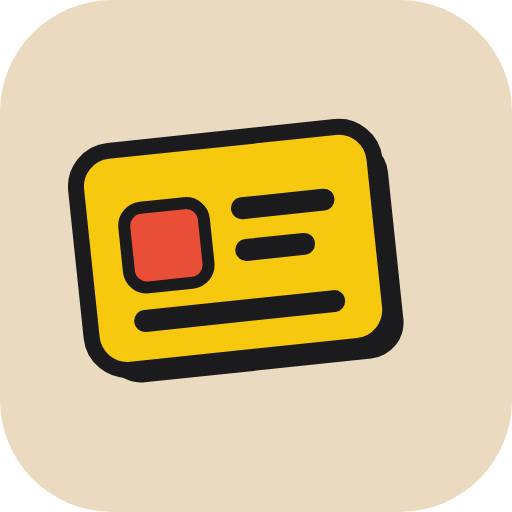
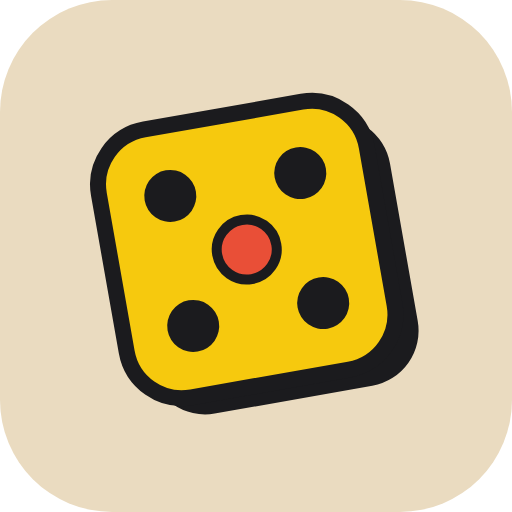
Renommage en « Dé-lire » + icône dé
Claude-Session: https://claude.ai/code/session_01TR8UHVK5wNmQrnRoSWmhDA

Changed region(s): [[0.125, 0.1562, 0.8438, 0.8125]]

diff --git a/app.js b/app.js
@@ -1,4 +1,4 @@
-// Soirée Canapé — interface (télé + téléphones) et synchronisation Supabase.
+// Dé-lire — interface (télé + téléphones) et synchronisation Supabase.
 (function () {
   'use strict';
 
@@ -83,7 +83,7 @@
     C.view = 'resume';
     var mine = null;
     (st.players || []).forEach(function (p) { if (p.pid === me.pid) mine = p; });
-    app.innerHTML = '<div class="ph"><h1 class="title">Soirée Canapé</h1><div class="grow"></div>' +
+    app.innerHTML = '<div class="ph"><h1 class="title">Dé-lire</h1><div class="grow"></div>' +
       '<div class="card stack" style="text-align:center"><span class="label">Partie en cours</span>' +
       '<span class="display" style="font-size:34px;letter-spacing:.2em">' + esc(sess.code) + '</span>' +
       '<span class="muted">Épreuve ' + st.round + ' / ' + (st.deck || []).length + (mine ? ' · tu as ' + mine.score + ' pts' : '') + '</span></div>' +
@@ -356,7 +356,7 @@
   }
 
   // ---------- rendu ----------
-  function boot(msg) { C.view = ''; app.innerHTML = '<div class="boot"><div style="text-align:center">Soirée Canapé<div class="muted" style="font-size:16px;font-family:var(--body);font-weight:500;margin-top:10px">' + esc(msg) + '</div></div></div>'; }
+  function boot(msg) { C.view = ''; app.innerHTML = '<div class="boot"><div style="text-align:center">Dé-lire<div class="muted" style="font-size:16px;font-family:var(--body);font-weight:500;margin-top:10px">' + esc(msg) + '</div></div></div>'; }
 
   function setView(key, html) {
     if (C.view === key) return false;
@@ -458,7 +458,7 @@
     }
     var full = C.S.players.length >= 6 && !findP(me.pid);
     var fresh = setView('join', '<div class="ph">' +
-      '<div><h1 class="title">Soirée Canapé</h1><div class="muted">Partie <b>' + esc(C.code) + '</b></div></div>' +
+      '<div><h1 class="title">Dé-lire</h1><div class="muted">Partie <b>' + esc(C.code) + '</b></div></div>' +
       '<div class="stack"><label class="label" for="nm">Ton prénom</label><input id="nm" class="input" maxlength="14" autocomplete="off" value="' + esc(me.name) + '"></div>' +
       '<div class="stack"><span class="label">Ta couleur</span><div class="colors" id="cols"></div></div>' +
       '<div class="grow"></div>' +
@@ -555,7 +555,7 @@
       settings = '<div class="note">C\'est ' + esc(capName()) + ' qui lance la partie</div>';
     }
     if (!setView(key, '<div class="ph">' +
-      '<div class="hd"><div><h1 class="title" style="font-size:28px">Soirée Canapé</h1><div class="muted" style="font-size:14px">' + S.players.length + ' joueur' + (S.players.length > 1 ? 's' : '') + ' dans la partie</div></div>' +
+      '<div class="hd"><div><h1 class="title" style="font-size:28px">Dé-lire</h1><div class="muted" style="font-size:14px">' + S.players.length + ' joueur' + (S.players.length > 1 ? 's' : '') + ' dans la partie</div></div>' +
       '<span class="codepill">' + esc(C.code) + '</span></div>' +
       qr + '<div class="pgrid">' + chips + '</div>' + settings +
       '<div class="grow"></div>' +
@@ -1259,7 +1259,7 @@
     }
     var tiles = C.code.split('').map(function (c) { return '<span>' + c + '</span>'; }).join('');
     setView(key, '<div class="tvw"><div class="lobby"><div class="l">' +
-      '<div><p class="brand-k">Soirée jeux</p><h1 class="brand">Soirée Canapé</h1></div>' +
+      '<div><p class="brand-k">Soirée jeux</p><h1 class="brand">Dé-lire</h1></div>' +
       '<div class="qrrow"><div class="qr">' + qrSvg(joinUrl()) + '</div><div style="display:flex;flex-direction:column;gap:1rem">' +
       '<div style="font-size:1.7rem;font-weight:600">Scannez avec votre téléphone</div>' +
       '<div class="muted" style="font-size:1.25rem">ou ouvrez ' + esc(location.host) + ' et entrez le code</div><div class="tiles">' + tiles + '</div></div></div></div>' +
@@ -1461,8 +1461,8 @@
   function showHome() {
     document.body.className = 'phone';
     C.view = 'home';
-    app.innerHTML = '<div class="ph"><div style="margin-top:6vh"><h1 class="title" style="font-size:46px">Soirée Canapé</h1><div class="muted" style="margin-top:8px">Le jeu de soirée de la famille</div></div>' +
-      '<div class="grow"></div>' +
+    app.innerHTML = '<div class="ph"><div style="margin-top:6vh"><h1 class="title" style="font-size:46px">Dé-lire</h1><div class="muted" style="margin-top:8px">Le jeu de soirée de la famille</div></div>' +
+      '<div class="grow homedie"></div>' +
       '<div class="stack"><label class="label" for="code">Rejoindre une partie</label><input id="code" class="input code" maxlength="4" placeholder="CODE" autocomplete="off" autocapitalize="characters">' +
       '<button class="btn" id="join">Rejoindre</button></div>' +
       '<div class="stack" style="margin-top:14px"><button class="btn ghost col" id="mk"><span>Créer une partie ici</span><span class="sub">Sans télé : ce téléphone sert de plateau</span></button>' +

diff --git a/style.css b/style.css
@@ -1,4 +1,4 @@
-/* Soirée Canapé — direction « Jeu de société » : papier kraft, cartes cernées, ombres franches */
+/* Dé-lire — direction « Jeu de société » : papier kraft, cartes cernées, ombres franches */
 :root {
   --bg: #EADBC0;
   --dot: #D6C3A0;
@@ -313,3 +313,9 @@ body.tv { overflow: hidden; background-size: 2rem 2rem; }
 .tvw .tteam b { font-family: var(--display); font-size: 1.8rem; }
 .tvw .tteam.t0 { background: #F9D5CE; }
 .tvw .tteam.t1 { background: #CFE2F2; }
+
+/* Dé de l'accueil téléphone : occupe l'espace libre, se réduit sur petits écrans */
+.homedie { min-height: 0; margin: 18px 22%; background: url(die.svg) center / contain no-repeat; animation: dieWobble 3.2s ease-in-out infinite; }
+@keyframes dieWobble { 0%, 100% { transform: rotate(-4deg); } 50% { transform: rotate(5deg) translateY(-4px); } }
+@media (prefers-reduced-motion: reduce) { .homedie { animation: none; } }
+@media (max-height: 600px) { .homedie { background: none; animation: none; } }

diff --git a/index.html b/index.html
@@ -4,7 +4,7 @@
 <meta charset="utf-8">
 <meta name="viewport" content="width=device-width, initial-scale=1, viewport-fit=cover">
 <meta name="theme-color" content="#EADBC0">
-<title>Soirée Canapé</title>
+<title>Dé-lire</title>
 <link rel="manifest" href="manifest.webmanifest">
 <link rel="icon" href="icon.svg" type="image/svg+xml">
 <link rel="apple-touch-icon" href="apple-touch-icon.png">
@@ -14,7 +14,7 @@
 <link rel="stylesheet" href="style.css">
 </head>
 <body>
-<div id="app"><div class="boot">Soirée Canapé</div></div>
+<div id="app"><div class="boot">Dé-lire</div></div>
 <div id="net" class="net" hidden>Connexion perdue… reconnexion en cours</div>
 <script>if (typeof globalThis === 'undefined') { window.globalThis = window; }</script>
 <script src="vendor/supabase.js"></script>

diff --git a/sw.js b/sw.js
@@ -1,7 +1,7 @@
 // Service worker minimal : rend le jeu installable et garde l'interface
 // disponible si le réseau hésite. Toujours le réseau d'abord, pour recevoir les mises à jour.
-var CACHE = 'soiree-canape-v8';
-var SHELL = ['./', 'index.html', 'style.css', 'app.js', 'engine.js', 'questions.js', 'vendor/supabase.js', 'vendor/qrcode.js', 'icon-192.png'];
+var CACHE = 'soiree-canape-v9';
+var SHELL = ['./', 'index.html', 'style.css', 'app.js', 'engine.js', 'questions.js', 'vendor/supabase.js', 'vendor/qrcode.js', 'icon-192.png', 'die.svg'];
 
 self.addEventListener('install', function (e) {
   e.waitUntil(caches.open(CACHE).then(function (c) { return c.addAll(SHELL); }).then(function () { return self.skipWaiting(); }));

diff --git a/engine.js b/engine.js
@@ -1,4 +1,4 @@
-// Moteur de partie Soirée Canapé.
+// Moteur de partie Dé-lire.
 // Il tourne sur UN seul appareil (la télé, ou le téléphone qui a créé la partie)
 // et fait autorité : il reçoit les actions des joueurs et diffuse l'état.
 // Écrit en ES5 pour rester compatible avec le navigateur des télés Samsung.
